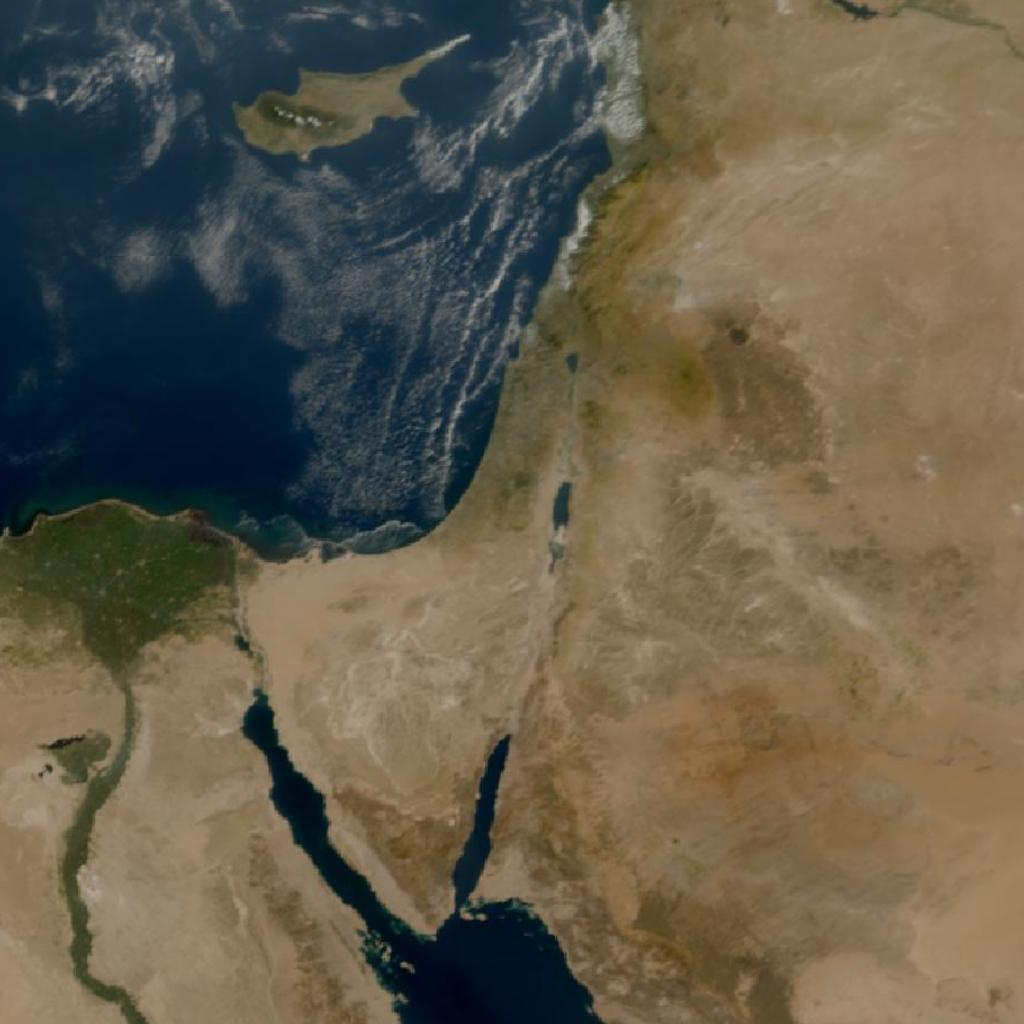
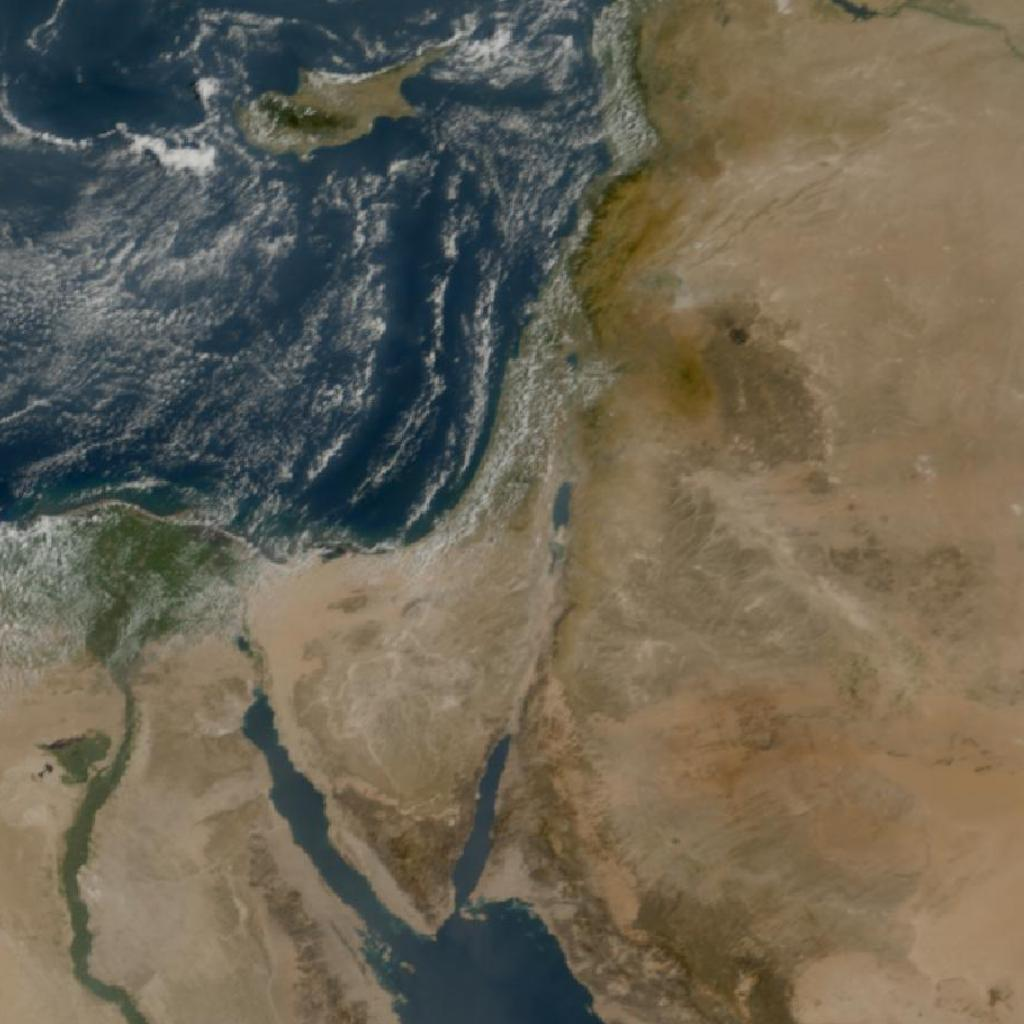
feat: vendored 3h real satellite sequence - monotonic forward mapping, 5-min interpolated steps
19 GeoColor frames per sector at the real 10-min cadence (2026-08-17
07:00-10:00Z, week's cloudiest by size probe), fetched by the new
tools/fetch-satellite.mjs. Asks map monotonically into the sequence
anchored at app load (~2h history, ~1h live headroom) - clouds never
move backward inside a sweep; the drift-synthesis machinery is gone.
Off-grid ask times (near 5-min steps over 10-min data) get forward
temporal interpolation: satellite globalAlpha-blends the two adjacent
frames, radar lerps their still-ground-subtracted cloudiness (now built
over all 19 frames).

Changed region(s): [[0.0, 0.0, 0.6562, 0.6875], [0.2188, 0.6875, 0.5938, 1.0], [0.0625, 0.9062, 0.125, 1.0]]

diff --git a/src/app/dev/fixture-backend/synthetic-satellite.ts b/src/app/dev/fixture-backend/synthetic-satellite.ts
@@ -6,7 +6,7 @@ export const SATELLITE_SECTORS: Record<string, { bounds: Bounds; size: number; s
   wide: { bounds: [20, 18, 52, 44], size: 3000, stepMinutes: 15 },
 };
 
-const SOURCE_COUNT = 5;
+export const SOURCE_COUNT = 19;
 
 const sourcePromises = new Map<string, Promise<ImageBitmap>>();
 const framePromises = new Map<string, Promise<Blob>>();
@@ -31,24 +31,28 @@ export function syntheticSatelliteImage(sector: string, channel: string, time: n
   return frame;
 }
 
-export function sourceMixAt(
-  time: number,
-  stepMinutes: number,
-): { from: number; to: number; mix: number } {
-  const slot = Math.floor(time / minutesToMs(stepMinutes));
-  const position = slot % (SOURCE_COUNT + 2);
-  if (position < SOURCE_COUNT) return { from: position, to: position, mix: 0 };
-  return { from: SOURCE_COUNT - 1, to: 0, mix: (position - SOURCE_COUNT + 1) / 3 };
+const ANCHOR_INDEX = 12;
+const SEQUENCE_STEP_MINUTES = 10;
+const SEQUENCE_EPOCH = Date.now();
+
+export function sourceMixAt(time: number): { from: number; to: number; mix: number } {
+  const position = Math.min(
+    SOURCE_COUNT - 1,
+    Math.max(0, ANCHOR_INDEX + (time - SEQUENCE_EPOCH) / minutesToMs(SEQUENCE_STEP_MINUTES)),
+  );
+  const from = Math.floor(position);
+  const to = Math.min(SOURCE_COUNT - 1, from + 1);
+  return { from, to, mix: position - from };
 }
 
 async function renderFrame(sector: string, channel: string, time: number): Promise<Blob> {
-  const { size, stepMinutes } = SATELLITE_SECTORS[sector] ?? SATELLITE_SECTORS['near'];
-  const { from, to, mix } = sourceMixAt(time, stepMinutes);
+  const { size } = SATELLITE_SECTORS[sector] ?? SATELLITE_SECTORS['near'];
+  const { from, to, mix } = sourceMixAt(time);
   const canvas = new OffscreenCanvas(size, size);
   const context = canvas.getContext('2d')!;
   if (channel === 'ir') context.filter = 'grayscale(1)';
   context.drawImage(await loadSource(sector, from), 0, 0, size, size);
-  if (mix > 0) {
+  if (mix > 0.01) {
     context.globalAlpha = mix;
     context.drawImage(await loadSource(sector, to), 0, 0, size, size);
   }

diff --git a/src/app/dev/fixture-backend/synthetic-radar.ts b/src/app/dev/fixture-backend/synthetic-radar.ts
@@ -1,7 +1,7 @@
 import { RadarTimes } from '../../types/radar';
 import { Wrap } from '../../types/wrap';
 import { minutesToMs } from '../../utils/time';
-import { SATELLITE_SECTORS, sourceMixAt } from './synthetic-satellite';
+import { SATELLITE_SECTORS, SOURCE_COUNT, sourceMixAt } from './synthetic-satellite';
 
 const RADAR_SITES: Record<string, { center: [number, number]; span: number; stepMinutes: number }> = {
   center: { center: [34.9, 32.0], span: 1.6, stepMinutes: 3 },
@@ -9,7 +9,6 @@ const RADAR_SITES: Record<string, { center: [number, number]; span: number; step
 };
 
 const CLOUD_SECTOR = SATELLITE_SECTORS['near'];
-const SOURCE_COUNT = 5;
 const SAMPLE_SIZE = 512;
 const GRID_SIZE = 80;
 
@@ -33,7 +32,7 @@ export async function syntheticRadarWrap(radar: string, time: number): Promise<W
   const sources = await loadSources();
   const cloudStepMs = minutesToMs(CLOUD_SECTOR.stepMinutes);
   const slotTime = Math.round(time / cloudStepMs) * cloudStepMs;
-  const { from, to, mix } = sourceMixAt(slotTime, CLOUD_SECTOR.stepMinutes);
+  const { from, to, mix } = sourceMixAt(slotTime);
   const radius = (GRID_SIZE - 1) / 2;
   const [lon, lat] = site.center;
   const half = site.span / 2;
@@ -75,8 +74,7 @@ function rainAt(
   lon: number,
   lat: number,
 ): number {
-  const movingCloud =
-    (1 - mix) * movingCloudAt(from, lon, lat) + mix * movingCloudAt(to, lon, lat);
+  const movingCloud = (1 - mix) * movingCloudAt(from, lon, lat) + mix * movingCloudAt(to, lon, lat);
   if (movingCloud < 0.06) return 0;
   const strength = Math.min(1, (movingCloud - 0.06) / 0.3);
   return Number((Math.pow(strength, 1.5) * 9).toFixed(1));

diff --git a/docs/satellite.md b/docs/satellite.md
@@ -100,11 +100,20 @@
 ## Fixture (dev/fixture-backend/synthetic-satellite.ts)
 
 - **Imagery is VENDORED since 2026-08-13** (lead: "load once pictures from a visible hours
-  preferably a cloudy day" — runtime WMS fetches broke the app during an EUMETView 502 outage):
-  `public/fixtures/satellite/{near,wide}-{0..4}.jpg` = 5 same-hour GeoColor frames per sector,
-  2026-08-07 09:00–09:40Z (cloudiest day in retention by jpeg-size probe — marine cloud streets),
-  fetched once by the paragraph below's recipe and committed. The fixture reads only these local
-  files. The original runtime source, kept for re-vendoring:
+  preferably a cloudy day" — runtime WMS fetches broke the app during an EUMETView 502 outage).
+  **Extended to a 3-hour sequence 2026-08-20** (lead: "i dont want the clouds to go back" — with
+  only 5 frames every pure time-mapping had to cycle, and every cycling variant showed backward
+  motion: `% 5` rewound, ping-pong reversed, crossfade returned, and a ground/cloud-decomposition
+  drift construction still wobbled because the real frames are only ~half pure-drift):
+  `public/fixtures/satellite/{near,wide}-{0..18}.jpg` = 19 GeoColor frames per sector at the real
+  10-min cadence, 2026-08-17 07:00–10:00Z (cloudiest day of its week by jpeg-size probe — a
+  frontal band over Israel), fetched by `tools/fetch-satellite.mjs <day> [startHourZ] [frames]`
+  and committed. Requested times map **monotonically** into the sequence, anchored at app load
+  (`sourceIndexAt`: `ANCHOR_INDEX 12` + `round((time − SEQUENCE_EPOCH)/step)`, clamped) — ~2h of
+  history behind, ~1h of live headroom ahead; a session older than that sees a frozen newest
+  frame (restart the app, or re-vendor a fresh day with the script). Motion inside any loop sweep
+  is strictly forward; the loop restart replays the window, as loops do. The runtime source, kept
+  for re-vendoring:
 - **Real imagery from EUMETSAT's open WMS** (EUMETView, anonymous):
   `https://view.eumetsat.int/geoserver/wms` … `layers=mtg_fd:rgb_geocolour`, `srs=EPSG:4326`,
   `bbox=west,south,east,north` (version 1.1.1), `time=<ISO>`. MTG GeoColor at 10-min native
@@ -115,10 +124,11 @@
   one image per day; final: **5 EUMETSAT frames from the same hour** (yesterday 09:00 UTC + i·10
   min — noon local, always daylit) — "take pictures that are all from the same hour so it looks
   more real". One image serves both channels (IR = canvas `grayscale(1)`).
-- Sectors: `near` = [30,27,40,36] 1024², 5-min cadence (was 10 — lowered so ≥5 frames fit a
-  30-min window); `wide` = [20,18,52,44] 3000², 15-min. Frame time → source index =
-  `floor(time/step) % 5` (consecutive frames = consecutive sources; the mod wrap can land
-  mid-loop — accepted).
+- Sectors: `near` = [30,27,40,36] 1024² at 5-min steps, `wide` = [20,18,52,44] 3000² at 15-min —
+  the underlying sequence is 10-min real cadence; off-grid ask times get **forward temporal
+  interpolation** (`sourceMixAt`: continuous position → floor/ceil frames + mix; satellite
+  `globalAlpha` blend, radar cloudiness lerp) — still strictly monotonic (lead wanted the 5-min
+  feel back, 2026-08-20).
 - **`latest` is computed per request from the real clock** — it was originally frozen at module
   load, which froze the fixture's newest frame at page-load time (the stuck "10:30–10:40 while
   it's 11:01" bug).

diff --git a/CLAUDE.md b/CLAUDE.md
@@ -747,17 +747,22 @@ flickers hard shoreline edges), baked into the maps at load. Only what MOVES bet
 (the lead's own test: "look as it doesnt move" — sun-brightening drift and the bright rift/Dead
 Sea ground cancel to ≤0.05, real streets swing 0.16–0.44); rain = `((signal−0.06)/0.3)^1.5 · 9`
 mm/h, 3×3-smoothed, so echo is a coherent band under the visible cloud street, mostly blue/green
-with rare cores. Frame content maps through `sourceMixAt` (`synthetic-satellite.ts`, shared): a
-**crossfade-closed 7-slot cycle** — 5 real sources forward, then two synthetic slots dissolving
-frame 4 back into frame 0 (mix ⅓, ⅔), so motion never reverses and never rewinds (the classic
-seamless-loop trick; replaced ping-pong 2026-08-19, lead disliked the direction reversal, which
-had replaced plain `% 5` whose 25-min cycle put a 40-min rewind in every loop — "maybe its the
-picture itself"). The 35-min cycle ≈ the ~30-min window, so even the loop restart lands one
-cycle-step apart (sim: every window alignment wraps at distance 1). Satellite blends via
-`globalAlpha` draw; radar lerps the two sources' still-ground-subtracted cloudiness. The radar
-still rounds its frame time to the nearest slot before mapping (nearest-source, matching
-nearest-display atTime — with floor-baking the rain visibly trailed the cloud at every 5-min
-boundary, lead caught that too). Kills three rejected generations: the vendored
+with rare cores. Frame content maps **monotonically into a vendored 3-hour real sequence** (lead
+2026-08-20: "i dont want the clouds to go back" — with 5 frames every pure time-mapping cycles,
+and every cycling variant moved backward somewhere: `% 5` rewound 40 min mid-loop, ping-pong
+reversed, a crossfade-closed cycle still returned, and a ground/cloud-decomposition drift
+construction wobbled since the real frames are only ~half pure-drift; full saga in
+docs/satellite.md): 19 GeoColor frames per sector at the real 10-min cadence (2026-08-17
+07:00–10:00Z, fetched by `tools/fetch-satellite.mjs`; near asks back at 5-min steps, wide 15 —
+in-between frames are **forward temporal interpolation**: `sourceMixAt` returns the continuous
+sequence position's floor/ceil pair + mix, satellite blends via `globalAlpha`, radar lerps
+cloudiness — monotonic by construction, lead asked for the 5-min feel back);
+`sourceIndexAt` = app-load-anchored `round((time − SEQUENCE_EPOCH)/step)` clamped into the
+sequence — ~2h history, ~1h live headroom, strictly forward inside any sweep (the loop restart
+replays the window, as loops do); sessions past the headroom freeze the newest frame (re-vendor
+or restart). Radar builds its cloudiness maps over all 19 frames (deeper still-ground min) and
+samples the same mapping's frame, rounded to the nearest slot (with floor-baking the rain
+visibly trailed the cloud, lead caught that). Kills three rejected generations: the vendored
 RainViewer decode silently blanked the layer (canvas premultiplication guts color below ~alpha
 100; the alpha≥200 gate kept 0.5% of echo), the alpha-only rewrite painted an everywhere-storm
 ("absolutely not real"), and raw whiteness rained on bright ground. The two sites keep their
